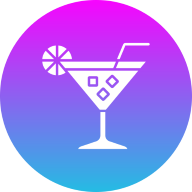
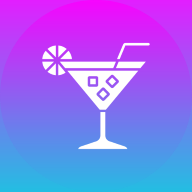
improve pwa and tunnel configuration

diff --git a/client/public/offline.html b/client/public/offline.html
@@ -1,0 +1,75 @@
+<!doctype html>
+<html lang="en">
+  <head>
+    <meta charset="UTF-8" />
+    <meta name="viewport" content="width=device-width, initial-scale=1.0" />
+    <meta name="theme-color" content="#111827" />
+    <title>CocktailApp offline</title>
+    <style>
+      :root {
+        color: #111827;
+        background: #f1f5f9;
+        font-family: Georgia, "Times New Roman", serif;
+      }
+
+      body {
+        min-height: 100vh;
+        margin: 0;
+        display: grid;
+        place-items: center;
+        padding: 24px;
+      }
+
+      main {
+        max-width: 420px;
+        width: 100%;
+        padding: 32px;
+        border: 1px solid #cbd5e1;
+        border-radius: 16px;
+        background: #fff;
+        box-shadow: 0 24px 60px rgba(15, 23, 42, 0.08);
+      }
+
+      img {
+        width: 56px;
+        height: 56px;
+        border-radius: 50%;
+        display: block;
+        margin-bottom: 20px;
+      }
+
+      h1 {
+        margin: 0 0 12px;
+        font-size: 32px;
+      }
+
+      p {
+        margin: 0 0 20px;
+        color: #475569;
+        line-height: 1.5;
+      }
+
+      button {
+        border: 0;
+        border-radius: 999px;
+        padding: 12px 18px;
+        background: #111827;
+        color: #fff;
+        font: inherit;
+        font-weight: 700;
+        cursor: pointer;
+      }
+    </style>
+  </head>
+  <body>
+    <main>
+      <img src="/icon-192.png" alt="CocktailApp" />
+      <h1>You are offline</h1>
+      <p>
+        CocktailApp is installed, but this page needs an internet or local
+        network connection to load fresh cocktail, chat, and profile data.
+      </p>
+      <button type="button" onclick="window.location.reload()">Try again</button>
+    </main>
+  </body>
+</html>

diff --git a/server/src/config/cors.ts b/server/src/config/cors.ts
@@ -1,0 +1,49 @@
+import "dotenv/config";
+
+const DEFAULT_CLIENT_ORIGINS = [
+  "http://localhost:5173",
+  "http://127.0.0.1:5173",
+];
+
+const getEnvOrigins = () =>
+  (process.env.CLIENT_URLS || process.env.CLIENT_URL || "")
+    .split(",")
+    .map((origin) => origin.trim())
+    .filter(Boolean);
+
+export const allowedClientOrigins = Array.from(
+  new Set([...DEFAULT_CLIENT_ORIGINS, ...getEnvOrigins()]),
+);
+
+export const isClientOriginAllowed = (origin?: string) => {
+  if (!origin) {
+    return true;
+  }
+
+  return allowedClientOrigins.some((allowedOrigin) => {
+    if (allowedOrigin.startsWith(".")) {
+      try {
+        return new URL(origin).hostname.endsWith(allowedOrigin);
+      } catch {
+        return false;
+      }
+    }
+
+    return allowedOrigin === origin;
+  });
+};
+
+export const corsOptions = {
+  origin: (
+    origin: string | undefined,
+    callback: (error: Error | null, allow?: boolean) => void,
+  ) => {
+    if (isClientOriginAllowed(origin)) {
+      callback(null, true);
+      return;
+    }
+
+    callback(new Error("Not allowed by CORS"));
+  },
+  credentials: true,
+};

diff --git a/client/public/service-worker.js b/client/public/service-worker.js
@@ -1,10 +1,12 @@
-const CACHE_VERSION = "cocktailapp-v1";
+const CACHE_VERSION = "cocktailapp-v3";
 const STATIC_CACHE = `${CACHE_VERSION}-static`;
 const RUNTIME_CACHE = `${CACHE_VERSION}-runtime`;
+const OFFLINE_URL = "/offline.html";
 
 const APP_SHELL = [
   "/",
   "/manifest.webmanifest",
+  OFFLINE_URL,
   "/icon-192.png",
   "/icon-512.png",
 ];
@@ -58,7 +60,23 @@ const networkFirst = async (request) => {
     return response;
   } catch {
     const cached = await cache.match(request);
-    return cached || caches.match("/");
+    return cached || caches.match("/") || caches.match(OFFLINE_URL);
+  }
+};
+
+const navigationFallback = async (request) => {
+  const cache = await caches.open(RUNTIME_CACHE);
+
+  try {
+    const response = await fetch(request);
+
+    if (response.ok) {
+      cache.put(request, response.clone());
+    }
+
+    return response;
+  } catch {
+    return caches.match(OFFLINE_URL);
   }
 };
 
@@ -93,7 +111,7 @@ self.addEventListener("fetch", (event) => {
   }
 
   if (request.mode === "navigate") {
-    event.respondWith(networkFirst(request));
+    event.respondWith(navigationFallback(request));
     return;
   }
 

diff --git a/client/src/utils/apiOrigin.ts b/client/src/utils/apiOrigin.ts
@@ -1,0 +1,21 @@
+const trimTrailingSlash = (value: string) => value.replace(/\/+$/, "");
+
+const getDefaultApiOrigin = () => {
+  if (typeof window === "undefined") {
+    return "http://localhost:3000";
+  }
+
+  const { hostname, protocol } = window.location;
+
+  if (hostname === "localhost" || hostname === "127.0.0.1") {
+    return "http://localhost:3000";
+  }
+
+  return `${protocol}//${hostname}:3000`;
+};
+
+export const API_ORIGIN = trimTrailingSlash(
+  import.meta.env.VITE_API_ORIGIN || getDefaultApiOrigin(),
+);
+
+export const API_BASE_URL = `${API_ORIGIN}/api`;

diff --git a/client/src/styles/chat.css b/client/src/styles/chat.css
@@ -1370,13 +1370,17 @@
   .chat-page {
     width: 100%;
     max-width: none;
+    margin: 0;
   }
 
   .chat-shell {
     grid-template-columns: 1fr;
-    height: calc(100dvh - 108px);
-    min-height: 0;
-    border-radius: var(--radius-lg);
+    height: calc(100dvh - 60px);
+    min-height: calc(100svh - 60px);
+    border-right: 0;
+    border-left: 0;
+    border-radius: 0;
+    box-shadow: none;
     overflow: hidden;
   }
 

diff --git a/client/src/components/layout/MainLayout.tsx b/client/src/components/layout/MainLayout.tsx
@@ -11,7 +11,7 @@ import {
   X,
 } from "lucide-react";
 import { useState } from "react";
-import { Link, NavLink, Outlet } from "react-router-dom";
+import { Link, NavLink, Outlet, useLocation } from "react-router-dom";
 import { useAuth } from "../../hooks/useAuth";
 import UserAvatar from "../ui/UserAvatar";
 
@@ -28,6 +28,8 @@ const navItems = [
 export default function MainLayout() {
   const { user, isAuthenticated } = useAuth();
   const [isMobileNavOpen, setIsMobileNavOpen] = useState(false);
+  const location = useLocation();
+  const isChatRoute = location.pathname.startsWith("/chat");
 
   const closeMobileNav = () => {
     setIsMobileNavOpen(false);
@@ -123,7 +125,7 @@ export default function MainLayout() {
         </nav>
       </header>
 
-      <main className="app-main">
+      <main className={`app-main ${isChatRoute ? "app-main-chat" : ""}`}>
         <Outlet />
       </main>
     </>

diff --git a/client/src/utils/getImageUrl.ts b/client/src/utils/getImageUrl.ts
@@ -1,3 +1,5 @@
+import { API_ORIGIN } from "./apiOrigin";
+
 export function getImageUrl(image?: string | null): string {
   if (!image) {
     return "";
@@ -12,8 +14,8 @@ export function getImageUrl(image?: string | null): string {
   }
 
   if (image.startsWith("/")) {
-    return `http://localhost:3000${image}`;
+    return `${API_ORIGIN}${image}`;
   }
 
-  return `http://localhost:3000/uploads/catalog/${image}`;
+  return `${API_ORIGIN}/uploads/catalog/${image}`;
 }

diff --git a/server/src/app.ts b/server/src/app.ts
@@ -1,6 +1,7 @@
 import cors from "cors";
 import express from "express";
 import path from "path";
+import { corsOptions } from "./config/cors";
 import authRoutes from "./routes/auth.routes";
 import profileRoutes from "./routes/profile.routes";
 import cocktailRoutes from "./routes/cocktail.routes";
@@ -18,10 +19,7 @@ import adminChatRoutes from "./routes/adminChat.routes";
 const app = express();
 
 app.use(express.json());
-app.use(cors({
-  origin: "http://localhost:5173",
-  credentials: true,
-}));
+app.use(cors(corsOptions));
 
 app.use("/api/auth", authRoutes);
 app.use("/api", profileRoutes);

diff --git a/client/src/styles/globals.css b/client/src/styles/globals.css
@@ -579,6 +579,10 @@ select {
     padding: 24px 12px;
   }
 
+  .app-main-chat {
+    padding: 0;
+  }
+
   .page-container {
     max-width: 100%;
   }

diff --git a/client/src/api/axios.ts b/client/src/api/axios.ts
@@ -1,8 +1,9 @@
 import axios from "axios";
 import { authStorage } from "../services/authStorage";
+import { API_BASE_URL } from "../utils/apiOrigin";
 
 export const api = axios.create({
-  baseURL: "http://localhost:3000/api",
+  baseURL: API_BASE_URL,
   headers: {
     "Content-Type": "application/json",
   },

diff --git a/client/src/hooks/useSocket.ts b/client/src/hooks/useSocket.ts
@@ -1,5 +1,6 @@
 import { useEffect, useState } from "react";
 import { io, Socket } from "socket.io-client";
+import { API_ORIGIN } from "../utils/apiOrigin";
 
 export function useSocket(token: string | null) {
   const [socket, setSocket] = useState<Socket | null>(null);
@@ -13,7 +14,7 @@ export function useSocket(token: string | null) {
       return;
     }
 
-    const nextSocket = io("http://localhost:3000", {
+    const nextSocket = io(API_ORIGIN, {
       auth: {
         token,
       },

diff --git a/client/vite.config.ts b/client/vite.config.ts
@@ -7,4 +7,7 @@ export default defineConfig({
   server: {
     port: 5173,
   },
+  preview: {
+    allowedHosts: [".trycloudflare.com"],
+  },
 });